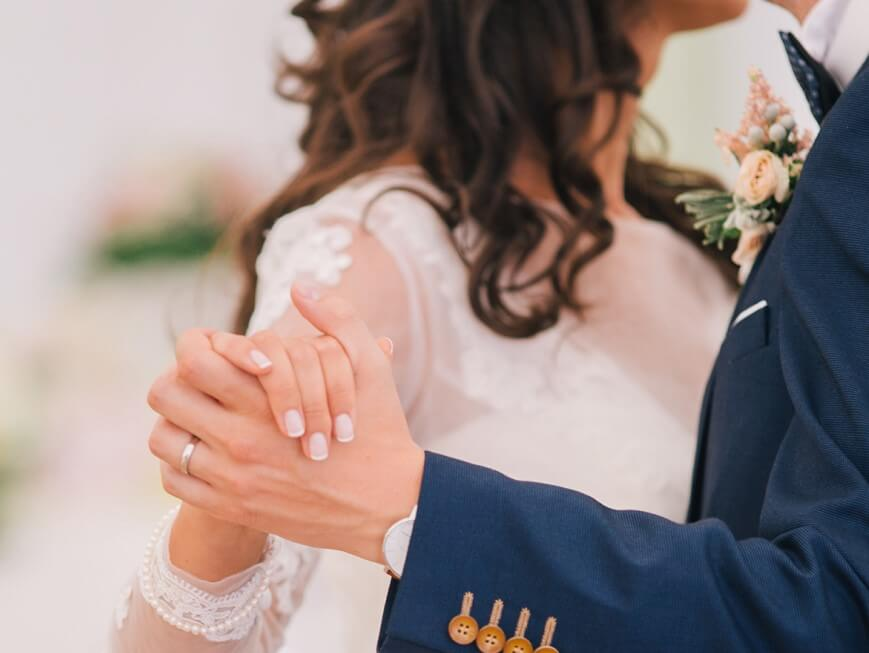
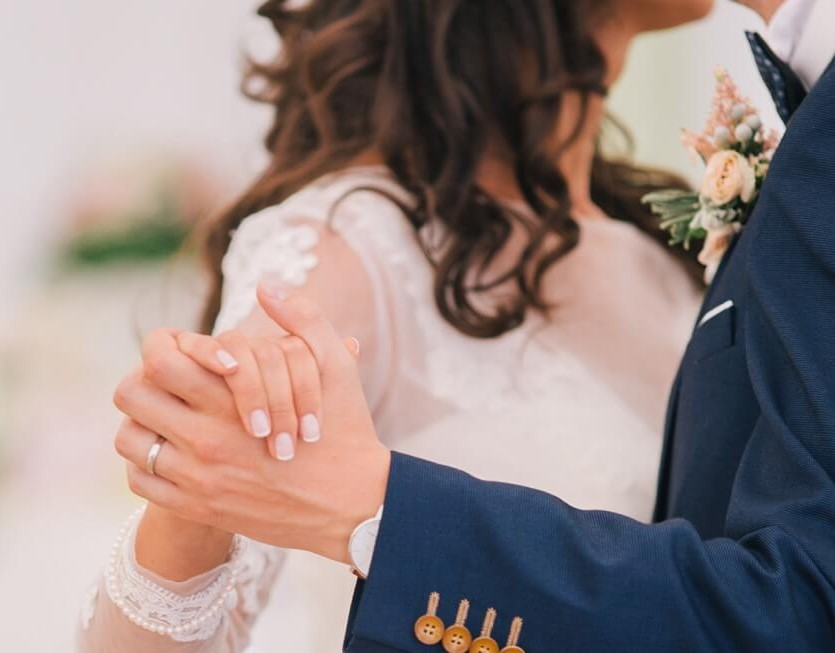
buttons fix, title img fix

diff --git a/app/css/main.min.css b/app/css/main.min.css
@@ -1,1 +1,1 @@
-a,abbr,acronym,address,applet,article,aside,audio,b,big,blockquote,body,canvas,caption,center,cite,code,dd,del,details,dfn,div,dl,dt,em,embed,fieldset,figcaption,figure,footer,form,h1,h2,h3,h4,h5,h6,header,hgroup,html,i,iframe,img,ins,kbd,label,legend,li,mark,menu,nav,object,ol,output,p,pre,q,ruby,s,samp,section,small,span,strike,strong,sub,summary,sup,table,tbody,td,tfoot,th,thead,time,tr,tt,u,ul,var,video{margin:0;padding:0;border:0;font-size:100%;font:inherit;vertical-align:baseline}:focus{outline:0}article,aside,details,figcaption,figure,footer,header,hgroup,menu,nav,section{display:block}body{line-height:1}ol,ul{list-style:none}blockquote,q{quotes:none}blockquote:after,blockquote:before,q:after,q:before{content:'';content:none}table{border-collapse:collapse;border-spacing:0}input[type=search]::-webkit-search-cancel-button,input[type=search]::-webkit-search-decoration,input[type=search]::-webkit-search-results-button,input[type=search]::-webkit-search-results-decoration{-webkit-appearance:none;-moz-appearance:none}input[type=search]{-webkit-appearance:none;-moz-appearance:none;-webkit-box-sizing:content-box;-moz-box-sizing:content-box;box-sizing:content-box}textarea{overflow:auto;vertical-align:top;resize:vertical}audio,canvas,video{display:inline-block;max-width:100%}audio:not([controls]){display:none;height:0}[hidden]{display:none}html{font-size:100%;-webkit-text-size-adjust:100%;-ms-text-size-adjust:100%}a:active,a:hover{outline:0}img{border:0;-ms-interpolation-mode:bicubic}figure{margin:0}form{margin:0}fieldset{border:1px solid silver;margin:0 2px;padding:.35em .625em .75em}legend{border:0;padding:0;white-space:normal}button,input,select,textarea{font-size:100%;margin:0;vertical-align:baseline}button,input{line-height:normal}button,select{text-transform:none}button,html input[type=button],input[type=reset],input[type=submit]{-webkit-appearance:button;cursor:pointer}button[disabled],html input[disabled]{cursor:default}input[type=checkbox],input[type=radio]{box-sizing:border-box;padding:0}input[type=search]{-webkit-appearance:textfield;-moz-box-sizing:content-box;-webkit-box-sizing:content-box;box-sizing:content-box}input[type=search]::-webkit-search-cancel-button,input[type=search]::-webkit-search-decoration{-webkit-appearance:none}button::-moz-focus-inner,input::-moz-focus-inner{border:0;padding:0}textarea{overflow:auto;vertical-align:top}table{border-collapse:collapse;border-spacing:0}button,html,input,select,textarea{color:#222}::-moz-selection{background:#b3d4fc;text-shadow:none}::selection{background:#b3d4fc;text-shadow:none}img{vertical-align:middle}fieldset{border:0;margin:0;padding:0}textarea{resize:vertical}.chromeframe{margin:.2em 0;background:#ccc;color:#000;padding:.2em 0}@font-face font-family: 'raleway-example' src: url('../fonts/RalewayRegular.woff') format('woff') @font-face font-family: 'raleway-example' src: url('../fonts/RalewayBold.woff') format('woff') font-weight: bold;@font-face{font-family:icons;src:url(../iconfonts/icons.eot);src:url(../iconfonts/icons.eot?#iefix) format("eot"),url(../iconfonts/icons.woff2) format("woff2"),url(../iconfonts/icons.woff) format("woff"),url(../iconfonts/icons.ttf) format("truetype"),url(../iconfonts/icons.svg#icons) format("svg")}.icon:before{font-family:icons;-webkit-font-smoothing:antialiased;-moz-osx-font-smoothing:grayscale;font-style:normal;font-variant:normal;font-weight:400;text-decoration:none;text-transform:none}.icon-Vector:before{content:"\E001"}.icon-Vector3:before{content:"\E002"}.icon-ico01:before{content:"\E003"}@media only screen and (max-width:1080px){html{font-size:14px;scroll-behavior:smooth}}body{font-family:Montserrat,Arial,Helvetica,sans-serif}@media only screen and (max-width:740px){body.fixed{overflow:hidden}}a{text-decoration:none;color:inherit;outline:0}.base-section{padding:0 -webkit-calc(50% - 648px);padding:0 calc(50% - 648px);margin-bottom:6%}@media only screen and (max-width:1400px){.base-section{padding:0 -webkit-calc(50% - 540px);padding:0 calc(50% - 540px)}}@media only screen and (max-width:1120px){.base-section{padding:0 -webkit-calc(50% - 460px);padding:0 calc(50% - 460px)}}@media only screen and (max-width:960px){.base-section{padding:0 -webkit-calc(50% - 360px);padding:0 calc(50% - 360px)}}@media only screen and (max-width:740px){.base-section{padding:0 15px;margin-bottom:15%}}.base-btn{background-color:transparent;border:2px solid #ff699f;color:#ff699f;padding:.5rem 3rem;border-radius:3px;-webkit-transition:all .3s linear;-o-transition:all .3s linear;transition:all .3s linear;font-size:16px}.base-btn:hover{color:#000;border-color:#000}.base-heading-xl{font-size:4.5rem;font-weight:700}@media only screen and (max-width:960px){.base-heading-xl{font-size:48px}}@media only screen and (max-width:740px){.base-heading-xl{font-size:36px}}.base-heading{font-size:2.25rem;font-weight:700}.base-heading-sm{font-size:1.5rem;font-weight:700}@media only screen and (max-width:1080px){.base-heading-sm{font-size:18px}}.base-text{font-family:Montserrat,Arial,Helvetica,sans-serif;line-height:1.5rem}.base-card{border:1px solid rgba(0,0,0,.04);-webkit-box-shadow:0 4px 30px rgba(207,207,207,.25);box-shadow:0 4px 30px rgba(207,207,207,.25);border-radius:2px}.d-flex{display:-webkit-box;display:-webkit-flex;display:-ms-flexbox;display:flex}.flex-column{-webkit-box-orient:vertical;-webkit-box-direction:normal;-webkit-flex-direction:column;-ms-flex-direction:column;flex-direction:column}.justify-between{-webkit-box-pack:justify;-webkit-justify-content:space-between;-ms-flex-pack:justify;justify-content:space-between}.justify-around{-webkit-justify-content:space-around;-ms-flex-pack:distribute;justify-content:space-around}.justify-center{-webkit-box-pack:center;-webkit-justify-content:center;-ms-flex-pack:center;justify-content:center}.justify-start{-webkit-box-pack:start;-webkit-justify-content:flex-start;-ms-flex-pack:start;justify-content:flex-start}.justify-end{-webkit-box-pack:end;-webkit-justify-content:flex-end;-ms-flex-pack:end;justify-content:flex-end}.align-center{-webkit-box-align:center;-webkit-align-items:center;-ms-flex-align:center;align-items:center}.align-start{-webkit-box-align:start;-webkit-align-items:flex-start;-ms-flex-align:start;align-items:flex-start}.align-end{-webkit-box-align:end;-webkit-align-items:flex-end;-ms-flex-align:end;align-items:flex-end}.slick-list{-webkit-box-shadow:0 4px 30px rgba(207,207,207,.25);box-shadow:0 4px 30px rgba(207,207,207,.25);border-radius:2px}.slick-track{display:-webkit-box;display:-webkit-flex;display:-ms-flexbox;display:flex}.slick-slide{height:auto}.header{padding:1% 0}@media only screen and (max-width:740px){.header{padding:4% 0}}.header__logo{font-size:18px;font-weight:700;white-space:nowrap}.header__menu-burger,.header__menu-burger::after,.header__menu-burger::before{-webkit-transition:all .3s;-o-transition:all .3s;transition:all .3s;content:"";height:2px;width:32px;border-radius:4px;background-color:#000;position:relative;z-index:6}.header__menu-burger::after{position:absolute;-webkit-transform:translateY(5px);-ms-transform:translateY(5px);transform:translateY(5px)}.header__menu-burger::before{position:absolute;-webkit-transform:translateY(-5px);-ms-transform:translateY(-5px);transform:translateY(-5px)}@media only screen and (min-width:740px){.header__menu-burger,.header__menu-burger::after,.header__menu-burger::before{display:none}}.header__menu-burger--active{background-color:transparent}.header__menu-burger--active:before{-webkit-transform:rotate(45deg);-ms-transform:rotate(45deg);transform:rotate(45deg);top:0}.header__menu-burger--active:after{-webkit-transform:rotate(-45deg);-ms-transform:rotate(-45deg);transform:rotate(-45deg);top:0}@media only screen and (max-width:740px){.menu{position:fixed;width:100%;height:100%;-webkit-transition:all .3s ease-in-out;-o-transition:all .3s ease-in-out;transition:all .3s ease-in-out;background-color:#fff;top:0;left:0;-webkit-box-orient:vertical;-webkit-box-direction:normal;-webkit-flex-direction:column;-ms-flex-direction:column;flex-direction:column;-webkit-transform:scale(0);-ms-transform:scale(0);transform:scale(0);opacity:0;-webkit-box-align:start;-webkit-align-items:flex-start;-ms-flex-align:start;align-items:flex-start;background-image:url(../img/Menu.png);background-repeat:no-repeat;background-size:contain;background-position-x:right;z-index:5;-webkit-box-pack:start;-webkit-justify-content:flex-start;-ms-flex-pack:start;justify-content:flex-start;padding:11% 0 0 7%}.menu--active{-webkit-transform:scale(1);-ms-transform:scale(1);transform:scale(1);opacity:1}}.menu__heading{margin-bottom:13%}@media only screen and (min-width:740px){.menu__heading{display:none}}@media only screen and (max-width:740px){.menu__list{-webkit-box-orient:vertical;-webkit-box-direction:normal;-webkit-flex-direction:column;-ms-flex-direction:column;flex-direction:column;margin-bottom:5%}}.menu__item{margin-right:7%;white-space:nowrap;font-size:.875rem;font-family:Roboto,Arial,Helvetica,sans-serif}@media only screen and (max-width:960px){.menu__item{margin-right:4%}}@media only screen and (max-width:740px){.menu__item{font-size:24px;margin-bottom:22%;font-weight:700;font-family:Montserrat,Arial,Helvetica,sans-serif}}.menu__link:hover{border-bottom:1px solid #000}.title{height:100%}@media only screen and (max-width:740px){.title{-webkit-box-orient:vertical;-webkit-box-direction:reverse;-webkit-flex-direction:column-reverse;-ms-flex-direction:column-reverse;flex-direction:column-reverse}}.title__inner{width:40%;height:100%;background-color:#fff;padding:6% 6% 6% 0}@media only screen and (max-width:740px){.title__inner{width:90%;padding:0}}.title__heading{margin-bottom:4%}.title__location{margin-bottom:6%;font-size:1.5rem}@media only screen and (max-width:740px){.title__location{font-size:14px}}.title__info{margin-bottom:8%}.title__btn{-webkit-align-self:flex-start;-ms-flex-item-align:start;align-self:flex-start}.title__img{width:100%;background-image:url(../img/first-dance-i.jpg);background-repeat:no-repeat;background-position:center;background-size:cover}@media only screen and (max-width:740px){.title__img{min-height:40vh;height:100%;margin:0 -15px 10%;width:auto}}.services__heading{margin-bottom:2%}.services__description{max-width:670px;margin-bottom:4%}.services__item{width:32.5%}@media only screen and (max-width:740px){.services__item{margin-right:1%}}.services__item-info{padding:10% 6% 18%}.services__item-heading{margin-bottom:6%}.services__item-point{margin-bottom:2%}.services__img{width:100%;max-width:421px}
+a,abbr,acronym,address,applet,article,aside,audio,b,big,blockquote,body,canvas,caption,center,cite,code,dd,del,details,dfn,div,dl,dt,em,embed,fieldset,figcaption,figure,footer,form,h1,h2,h3,h4,h5,h6,header,hgroup,html,i,iframe,img,ins,kbd,label,legend,li,mark,menu,nav,object,ol,output,p,pre,q,ruby,s,samp,section,small,span,strike,strong,sub,summary,sup,table,tbody,td,tfoot,th,thead,time,tr,tt,u,ul,var,video{margin:0;padding:0;border:0;font-size:100%;font:inherit;vertical-align:baseline}:focus{outline:0}article,aside,details,figcaption,figure,footer,header,hgroup,menu,nav,section{display:block}body{line-height:1}ol,ul{list-style:none}blockquote,q{quotes:none}blockquote:after,blockquote:before,q:after,q:before{content:'';content:none}table{border-collapse:collapse;border-spacing:0}input[type=search]::-webkit-search-cancel-button,input[type=search]::-webkit-search-decoration,input[type=search]::-webkit-search-results-button,input[type=search]::-webkit-search-results-decoration{-webkit-appearance:none;-moz-appearance:none}input[type=search]{-webkit-appearance:none;-moz-appearance:none;-webkit-box-sizing:content-box;-moz-box-sizing:content-box;box-sizing:content-box}textarea{overflow:auto;vertical-align:top;resize:vertical}audio,canvas,video{display:inline-block;max-width:100%}audio:not([controls]){display:none;height:0}[hidden]{display:none}html{font-size:100%;-webkit-text-size-adjust:100%;-ms-text-size-adjust:100%}a:active,a:hover{outline:0}img{border:0;-ms-interpolation-mode:bicubic}figure{margin:0}form{margin:0}fieldset{border:1px solid silver;margin:0 2px;padding:.35em .625em .75em}legend{border:0;padding:0;white-space:normal}button,input,select,textarea{font-size:100%;margin:0;vertical-align:baseline}button,input{line-height:normal}button,select{text-transform:none}button,html input[type=button],input[type=reset],input[type=submit]{-webkit-appearance:button;cursor:pointer}button[disabled],html input[disabled]{cursor:default}input[type=checkbox],input[type=radio]{box-sizing:border-box;padding:0}input[type=search]{-webkit-appearance:textfield;-moz-box-sizing:content-box;-webkit-box-sizing:content-box;box-sizing:content-box}input[type=search]::-webkit-search-cancel-button,input[type=search]::-webkit-search-decoration{-webkit-appearance:none}button::-moz-focus-inner,input::-moz-focus-inner{border:0;padding:0}textarea{overflow:auto;vertical-align:top}table{border-collapse:collapse;border-spacing:0}button,html,input,select,textarea{color:#222}::-moz-selection{background:#b3d4fc;text-shadow:none}::selection{background:#b3d4fc;text-shadow:none}img{vertical-align:middle}fieldset{border:0;margin:0;padding:0}textarea{resize:vertical}.chromeframe{margin:.2em 0;background:#ccc;color:#000;padding:.2em 0}@font-face font-family: 'raleway-example' src: url('../fonts/RalewayRegular.woff') format('woff') @font-face font-family: 'raleway-example' src: url('../fonts/RalewayBold.woff') format('woff') font-weight: bold;@font-face{font-family:icons;src:url(../iconfonts/icons.eot);src:url(../iconfonts/icons.eot?#iefix) format("eot"),url(../iconfonts/icons.woff2) format("woff2"),url(../iconfonts/icons.woff) format("woff"),url(../iconfonts/icons.ttf) format("truetype"),url(../iconfonts/icons.svg#icons) format("svg")}.icon:before{font-family:icons;-webkit-font-smoothing:antialiased;-moz-osx-font-smoothing:grayscale;font-style:normal;font-variant:normal;font-weight:400;text-decoration:none;text-transform:none}.icon-Vector:before{content:"\E001"}.icon-Vector3:before{content:"\E002"}.icon-ico01:before{content:"\E003"}@media only screen and (max-width:1080px){html{font-size:14px;scroll-behavior:smooth}}body{font-family:Montserrat,Arial,Helvetica,sans-serif}@media only screen and (max-width:740px){body.fixed{overflow:hidden}}a{text-decoration:none;color:inherit;outline:0}.base-section{padding:0 -webkit-calc(50% - 648px);padding:0 calc(50% - 648px);margin-bottom:6%}@media only screen and (max-width:1400px){.base-section{padding:0 -webkit-calc(50% - 540px);padding:0 calc(50% - 540px)}}@media only screen and (max-width:1120px){.base-section{padding:0 -webkit-calc(50% - 460px);padding:0 calc(50% - 460px)}}@media only screen and (max-width:960px){.base-section{padding:0 -webkit-calc(50% - 360px);padding:0 calc(50% - 360px)}}@media only screen and (max-width:740px){.base-section{padding:0 15px;margin-bottom:15%}}.base-btn,.btn-accent,.btn-main{background-color:transparent;padding:.5rem 3rem;border-radius:3px;-webkit-transition:all .3s linear;-o-transition:all .3s linear;transition:all .3s linear;font-size:16px}.base-heading-xl{font-size:4.5rem;font-weight:700}@media only screen and (max-width:960px){.base-heading-xl{font-size:48px}}@media only screen and (max-width:740px){.base-heading-xl{font-size:36px}}.base-heading{font-size:2.25rem;font-weight:700}.base-heading-sm{font-size:1.5rem;font-weight:700}@media only screen and (max-width:1080px){.base-heading-sm{font-size:18px}}.base-text{font-family:Montserrat,Arial,Helvetica,sans-serif;line-height:1.5rem}.base-card{border:1px solid rgba(0,0,0,.04);-webkit-box-shadow:0 4px 30px rgba(207,207,207,.25);box-shadow:0 4px 30px rgba(207,207,207,.25);border-radius:2px}.btn-main{border:2px solid #000;color:#000}.btn-main:hover{color:#fff;background-color:#000}.btn-accent{border:2px solid #ff699f;color:#ff699f}.btn-accent:hover{color:#fff;background-color:#ff699f}.d-flex{display:-webkit-box;display:-webkit-flex;display:-ms-flexbox;display:flex}.flex-column{-webkit-box-orient:vertical;-webkit-box-direction:normal;-webkit-flex-direction:column;-ms-flex-direction:column;flex-direction:column}.justify-between{-webkit-box-pack:justify;-webkit-justify-content:space-between;-ms-flex-pack:justify;justify-content:space-between}.justify-around{-webkit-justify-content:space-around;-ms-flex-pack:distribute;justify-content:space-around}.justify-center{-webkit-box-pack:center;-webkit-justify-content:center;-ms-flex-pack:center;justify-content:center}.justify-start{-webkit-box-pack:start;-webkit-justify-content:flex-start;-ms-flex-pack:start;justify-content:flex-start}.justify-end{-webkit-box-pack:end;-webkit-justify-content:flex-end;-ms-flex-pack:end;justify-content:flex-end}.align-center{-webkit-box-align:center;-webkit-align-items:center;-ms-flex-align:center;align-items:center}.align-start{-webkit-box-align:start;-webkit-align-items:flex-start;-ms-flex-align:start;align-items:flex-start}.align-end{-webkit-box-align:end;-webkit-align-items:flex-end;-ms-flex-align:end;align-items:flex-end}.slick-list{-webkit-box-shadow:0 4px 30px rgba(207,207,207,.25);box-shadow:0 4px 30px rgba(207,207,207,.25);border-radius:2px}.slick-track{display:-webkit-box;display:-webkit-flex;display:-ms-flexbox;display:flex}.slick-slide{height:auto}.header{padding:1% 0}@media only screen and (max-width:740px){.header{padding:4% 0}}.header__logo{font-size:18px;font-weight:700;white-space:nowrap}.header__menu-burger,.header__menu-burger::after,.header__menu-burger::before{-webkit-transition:all .3s;-o-transition:all .3s;transition:all .3s;content:"";height:2px;width:32px;border-radius:4px;background-color:#000;position:relative;z-index:6}.header__menu-burger::after{position:absolute;-webkit-transform:translateY(5px);-ms-transform:translateY(5px);transform:translateY(5px)}.header__menu-burger::before{position:absolute;-webkit-transform:translateY(-5px);-ms-transform:translateY(-5px);transform:translateY(-5px)}@media only screen and (min-width:740px){.header__menu-burger,.header__menu-burger::after,.header__menu-burger::before{display:none}}.header__menu-burger--active{background-color:transparent}.header__menu-burger--active:before{-webkit-transform:rotate(45deg);-ms-transform:rotate(45deg);transform:rotate(45deg);top:0}.header__menu-burger--active:after{-webkit-transform:rotate(-45deg);-ms-transform:rotate(-45deg);transform:rotate(-45deg);top:0}@media only screen and (max-width:740px){.menu{position:fixed;width:100%;height:100%;-webkit-transition:all .3s ease-in-out;-o-transition:all .3s ease-in-out;transition:all .3s ease-in-out;background-color:#fff;top:0;left:0;-webkit-box-orient:vertical;-webkit-box-direction:normal;-webkit-flex-direction:column;-ms-flex-direction:column;flex-direction:column;-webkit-transform:scale(0);-ms-transform:scale(0);transform:scale(0);opacity:0;-webkit-box-align:start;-webkit-align-items:flex-start;-ms-flex-align:start;align-items:flex-start;background-image:url(../img/Menu.png);background-repeat:no-repeat;background-size:contain;background-position-x:right;z-index:5;-webkit-box-pack:start;-webkit-justify-content:flex-start;-ms-flex-pack:start;justify-content:flex-start;padding:11% 0 0 7%}.menu--active{-webkit-transform:scale(1);-ms-transform:scale(1);transform:scale(1);opacity:1}}.menu__heading{margin-bottom:13%}@media only screen and (min-width:740px){.menu__heading{display:none}}@media only screen and (max-width:740px){.menu__list{-webkit-box-orient:vertical;-webkit-box-direction:normal;-webkit-flex-direction:column;-ms-flex-direction:column;flex-direction:column;margin-bottom:5%}}.menu__item{margin-right:7%;white-space:nowrap;font-size:.875rem;font-family:Roboto,Arial,Helvetica,sans-serif}@media only screen and (max-width:960px){.menu__item{margin-right:4%}}@media only screen and (max-width:740px){.menu__item{font-size:24px;margin-bottom:22%;font-weight:700;font-family:Montserrat,Arial,Helvetica,sans-serif}}.menu__link:hover{border-bottom:1px solid #000}.title{height:100%}@media only screen and (max-width:740px){.title{-webkit-box-orient:vertical;-webkit-box-direction:reverse;-webkit-flex-direction:column-reverse;-ms-flex-direction:column-reverse;flex-direction:column-reverse}}.title__inner{width:33%;height:100%;background-color:#fff;padding:6% 6% 6% 0}@media only screen and (max-width:740px){.title__inner{width:90%;padding:0}}.title__heading{margin-bottom:4%}.title__location{margin-bottom:6%;font-size:1.5rem}@media only screen and (max-width:740px){.title__location{font-size:14px}}.title__info{margin-bottom:8%}.title__btn{-webkit-align-self:flex-start;-ms-flex-item-align:start;align-self:flex-start}@media only screen and (max-width:740px){.title__img-holder{margin:0 -15px 10%}}.title__img{width:100%;height:100%;-o-object-fit:cover;object-fit:cover}.services__heading{margin-bottom:2%}@media only screen and (max-width:740px){.services__heading{margin-bottom:4%}}.services__description{max-width:670px;margin-bottom:4%}@media only screen and (max-width:740px){.services__description{margin-bottom:7%}}.services__item{width:32.5%}@media only screen and (max-width:740px){.services__item{margin-right:1%}}.services__item-info{padding:10% 6% 18%}.services__item-heading{margin-bottom:6%}.services__item-point{margin-bottom:2%}.services__img{width:100%;max-width:421px}

diff --git a/app/scss/main.scss b/app/scss/main.scss
@@ -93,7 +93,7 @@
     white-space: nowrap;
     font-size: 0.875rem;
     font-family: $font-family-alt;
-    @media only screen and (max-width: 960px){
+    @media only screen and (max-width: 960px) {
       margin-right: 4%;
     }
     @media only screen and (max-width: $media-mob) {
@@ -116,7 +116,7 @@
     flex-direction: column-reverse;
   }
   &__inner {
-    width: 40%;
+    width: 33%;
     height: 100%;
     background-color: #ffffff;
     padding: 6% 6% 6% 0;
@@ -131,7 +131,7 @@
   &__location {
     margin-bottom: 6%;
     font-size: 1.5rem;
-    @media only screen and (max-width: $media-mob){
+    @media only screen and (max-width: $media-mob) {
       font-size: 14px;
     }
   }
@@ -141,28 +141,31 @@
   &__btn {
     align-self: flex-start;
   }
+  &__img-holder {
+    @media only screen and (max-width: $media-mob) {
+      margin: 0 -15px 10%;
+    }
+  }
   &__img {
     width: 100%;
-    background-image: url(../img/first-dance-i.jpg);
-    background-repeat: no-repeat;
-    background-position: center;
-    background-size: cover;
-    @media only screen and (max-width: $media-mob) {
-      min-height: 40vh;
-      height: 100%;
-      margin: 0 -15px 10%;
-      width: auto;
-    }
+    height: 100%;
+    object-fit: cover;
   }
 }
 
 .services {
   &__heading {
     margin-bottom: 2%;
+    @media only screen and (max-width: $media-mob) {
+      margin-bottom: 4%;
+    }
   }
   &__description {
     max-width: 670px;
     margin-bottom: 4%;
+    @media only screen and (max-width: $media-mob) {
+      margin-bottom: 7%;
+    }
   }
   &__item {
     width: 32.5%;

diff --git a/app/index.html b/app/index.html
@@ -40,7 +40,7 @@
               <a href="#review" class="menu__link">Lesson Review</a>
             </li>
           </ul>
-          <button class="base-btn menu__btn">Start</button>
+          <button class="btn-main menu__btn">Start</button>
         </nav>
         <span class="header__menu-burger"></span>
       </header>
@@ -54,9 +54,11 @@
             becomes the favorite moment you like to play on videos and photos.
             Feel the moment
           </p>
-          <button class="base-btn title__btn">Let’s start</button>
+          <button class="btn-accent title__btn">Let’s start</button>
         </div>
-        <div class="title__img"></div>
+        <div class="title__img-holder">
+          <img src="./img/first-dance-i.jpg" alt="First Dance" class="title__img">
+        </div>
       </div>
     </section>
     <section class="base-section services" id="services">

diff --git a/app/scss/_base.scss b/app/scss/_base.scss
@@ -47,16 +47,10 @@ a {
 
 .base-btn {
   background-color: transparent;
-  border: 2px solid $color-accent;
-  color: $color-accent;
   padding: .5rem 3rem;
   border-radius: 3px;
   transition: all .3s linear;
   font-size: 16px;
-  &:hover {
-    color: $color-main;
-    border-color: $color-main;
-  }
 }
 
 .base-heading-xl {
@@ -95,6 +89,25 @@ a {
   border-radius: 2px;
 }
 
+.btn-main {
+  @extend .base-btn;
+  border: 2px solid $color-main;
+  color: $color-main;
+  &:hover {
+    color: white;
+    background-color: $color-main;
+  }
+}
+
+.btn-accent {
+  @extend .base-btn;
+  border: 2px solid $color-accent;
+  color: $color-accent;
+  &:hover {
+    color: white;
+    background-color: $color-accent;
+  }
+}
 
 /*============ FLEX GRID ============*/
 
